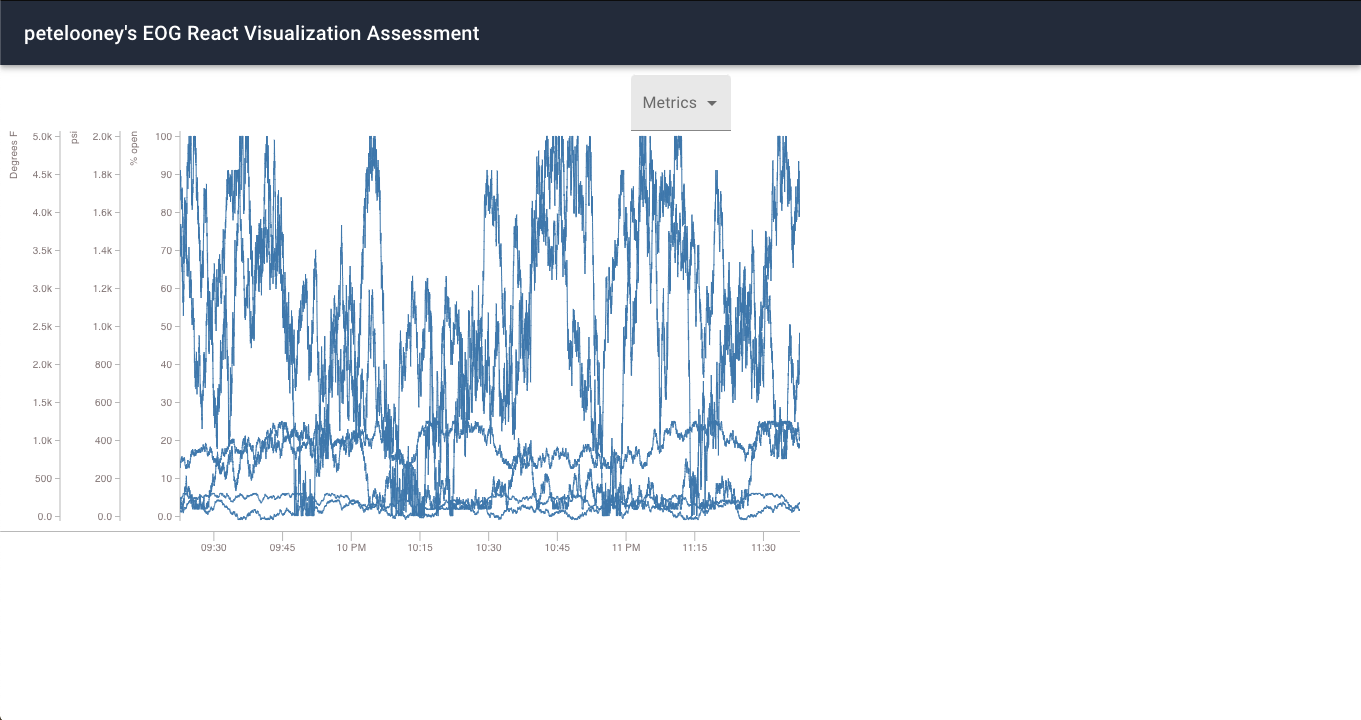
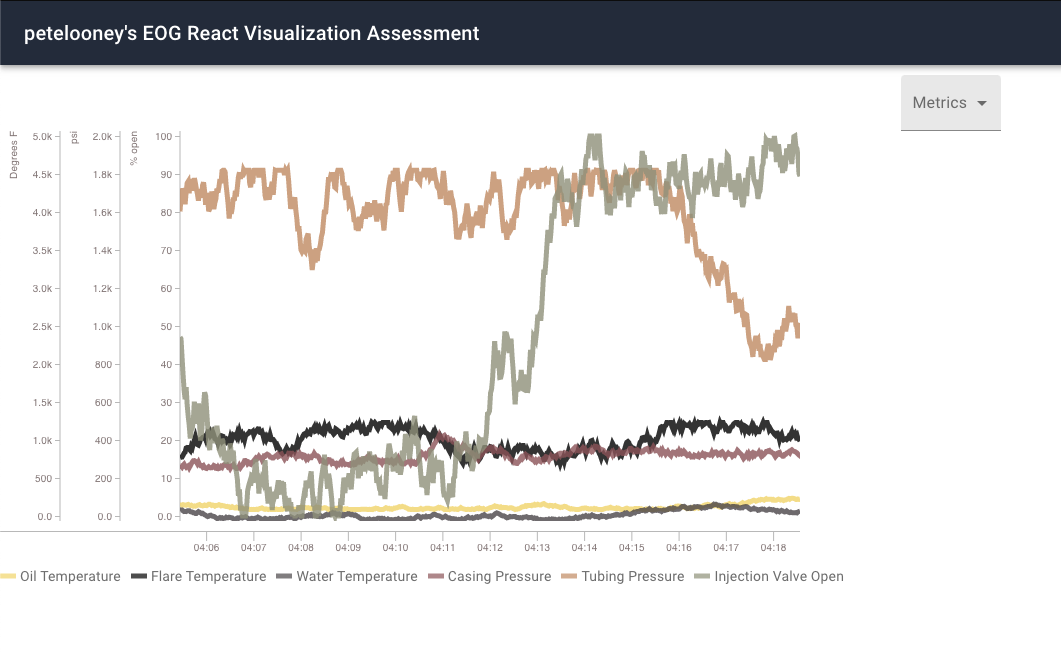
added series styling & legend

diff --git a/src/components/Chart.js b/src/components/Chart.js
@@ -2,7 +2,7 @@ import { TimeSeries } from 'pondjs';
 import React from 'react';
 import { useSelector } from 'react-redux';
 import {Charts, ChartContainer, ChartRow, YAxis, LineChart } from "react-timeseries-charts";
-// import { styler } from "react-timeseries-charts";
+import { styler, Legend } from "react-timeseries-charts";
 
 export default function Chart() {
     const {data} = useSelector(state => state.measurements)
@@ -24,7 +24,7 @@ export default function Chart() {
         //oil temperature section
         const oilTemp = data.filter(metricData => metricData.metric === 'oilTemp');
         const oilTempName = 'oilTemp';
-        const oilTempColumns = ['time', 'value'];
+        const oilTempColumns = ['time', 'oilTemp'];
         const oilTempPoints = oilTemp[0].measurements.map(measurement => {
             return [measurement.at, measurement.value]
         })
@@ -39,7 +39,7 @@ export default function Chart() {
         //flare temperature section
         const flareTemp = data.filter(metricData => metricData.metric === 'flareTemp');
         const flareTempName = 'flareTemp';
-        const flareTempColumns = ['time', 'value'];
+        const flareTempColumns = ['time', 'flareTemp'];
         const flareTempPoints = flareTemp[0].measurements.map(measurement => {
             return [measurement.at, measurement.value]
         })
@@ -54,7 +54,7 @@ export default function Chart() {
         //water temperature section
         const waterTemp = data.filter(metricData => metricData.metric === 'waterTemp');
         const waterTempName = 'waterTemp';
-        const waterTempColumns = ['time', 'value'];
+        const waterTempColumns = ['time', 'waterTemp'];
         const waterTempPoints = waterTemp[0].measurements.map(measurement => {
             return [measurement.at, measurement.value]
         })
@@ -68,7 +68,7 @@ export default function Chart() {
         //tubing pressure section
         const tubingPressure = data.filter(metricData => metricData.metric === 'tubingPressure');
         const tubingPressureName = 'tubingPressure';
-        const tubingPressureColumns = ['time', 'value'];
+        const tubingPressureColumns = ['time', 'tubingPressure'];
         const tubingPressurePoints = tubingPressure[0].measurements.map(measurement => {
             return [measurement.at, measurement.value]
         })
@@ -84,7 +84,7 @@ export default function Chart() {
         //casing pressure section
         const casingPressure = data.filter(metricData => metricData.metric === 'casingPressure');
         const casingPressureName = 'casingPressure';
-        const casingPressureColumns = ['time', 'value'];
+        const casingPressureColumns = ['time', 'casingPressure'];
         const casingPressurePoints = casingPressure[0].measurements.map(measurement => {
             return [measurement.at, measurement.value]
         })
@@ -100,7 +100,7 @@ export default function Chart() {
         //injection valve section
         const injectionValveOpen = data.filter(metricData => metricData.metric === 'injValveOpen');
         const injectionValveOpenName = 'injValveOpen';
-        const injectionValveOpenColumns = ['time', 'value'];
+        const injectionValveOpenColumns = ['time', 'injValveOpen'];
         const injectionValveOpenPoints = injectionValveOpen[0].measurements.map(measurement => {
             return [measurement.at, measurement.value]
         })
@@ -114,14 +114,14 @@ export default function Chart() {
         injectionValveOpenSeries = new TimeSeries(injectionValveOpenData)
     }
     
-    // const chartStyler = styler([
-    //     {key: 'oilTemp', color: "#f2d974", width: 5},
-    //     {key: 'tubingPressure', color: "#c7956d", width: 5},
-    //     {key: 'casingPressure', color: '#965d62', width: 5},
-    //     {key: 'waterTemp', color: '#534e52', width: 5},
-    //     {key: 'injValveOpen', color: '#999b84', width: 5},
-    //     {key: 'flareTemp', color: '#f4eeed', width: 5}
-    // ]);
+    const chartStyler = styler([
+        {key: 'oilTemp', color: "#f2d974", width: 5},
+        {key: 'tubingPressure', color: "#c7956d", width: 5},
+        {key: 'casingPressure', color: '#965d62', width: 5},
+        {key: 'waterTemp', color: '#534e52', width: 5},
+        {key: 'injValveOpen', color: '#999b84', width: 5},
+        {key: 'flareTemp', color: 'black', width: 5}
+    ]);
 
     return (
         <>
@@ -133,15 +133,27 @@ export default function Chart() {
                     <YAxis id="pressure" label="psi" min={0} max={2000} width="60" type="linear"/>
                     <YAxis id="percentOpen" label="% open" min={0} max={100} width="60" type="linear"/>
                     <Charts>
-                        <LineChart axis="tempF" series={oilTempSeries} column={['oilTemp']} />
-                        <LineChart axis="tempF" series={tempSeries} column={['flareTemp']} />
-                        <LineChart axis="tempF" series={waterTempSeries} column={['waterTemp']} />
-                        <LineChart axis="pressure" series={pressureSeries}  column={['tubingPressure']} />
-                        <LineChart axis="pressure" series={casingPressureSeries} column={['casingPressure']} />
-                        <LineChart axis="percentOpen" series={injectionValveOpenSeries} column={['injValveOpen']} />
+                        <LineChart axis="tempF" series={oilTempSeries} columns={['oilTemp']} style={chartStyler}/>
+                        <LineChart axis="tempF" series={tempSeries} columns={['flareTemp']} style={chartStyler}/>
+                        <LineChart axis="tempF" series={waterTempSeries} columns={['waterTemp']} style={chartStyler}/>
+                        <LineChart axis="pressure" series={pressureSeries}  columns={['tubingPressure']} style={chartStyler}/>
+                        <LineChart axis="pressure" series={casingPressureSeries} columns={['casingPressure']} style={chartStyler}/>
+                        <LineChart axis="percentOpen" series={injectionValveOpenSeries} columns={['injValveOpen']} style={chartStyler}/>
                     </Charts>
                 </ChartRow>
             </ChartContainer>
+            <Legend
+            type="line"
+            align="left"
+            style={chartStyler}
+            categories={[
+                {key: "oilTemp", label: "Oil Temperature"},
+                {key: "flareTemp", label: "Flare Temperature"},
+                {key: "waterTemp", label: "Water Temperature"},
+                {key: "casingPressure", label: "Casing Pressure"},
+                {key: "tubingPressure", label: "Tubing Pressure"},
+                {key: "injValveOpen", label: "Injection Valve Open"},
+            ]} />
             </>
         )}
         </>

diff --git a/src/components/Visualization.js b/src/components/Visualization.js
@@ -27,27 +27,27 @@ import Chart from './Chart';
         const input = [
                 {
                   "metricName": "oilTemp",
-                  "after": 1607484162986
+                  "after": 1607551526841
                 }, 
                 {
                   "metricName": "tubingPressure",
-                  "after": 1607484162986
+                  "after": 1607551526841
                 },
                 {
                   "metricName": "casingPressure",
-                  "after": 1607484162986
+                  "after": 1607551526841
                 },
                 {
                   "metricName": "waterTemp",
-                  "after": 1607484162986
+                  "after": 1607551526841
                 },
                 {
                   "metricName": "injValveOpen",
-                  "after": 1607484162986
+                  "after": 1607551526841
                 },
                 {
                   "metricName": "flareTemp",
-                  "after": 1607484162986
+                  "after": 1607551526841
                 }
         ]
 
